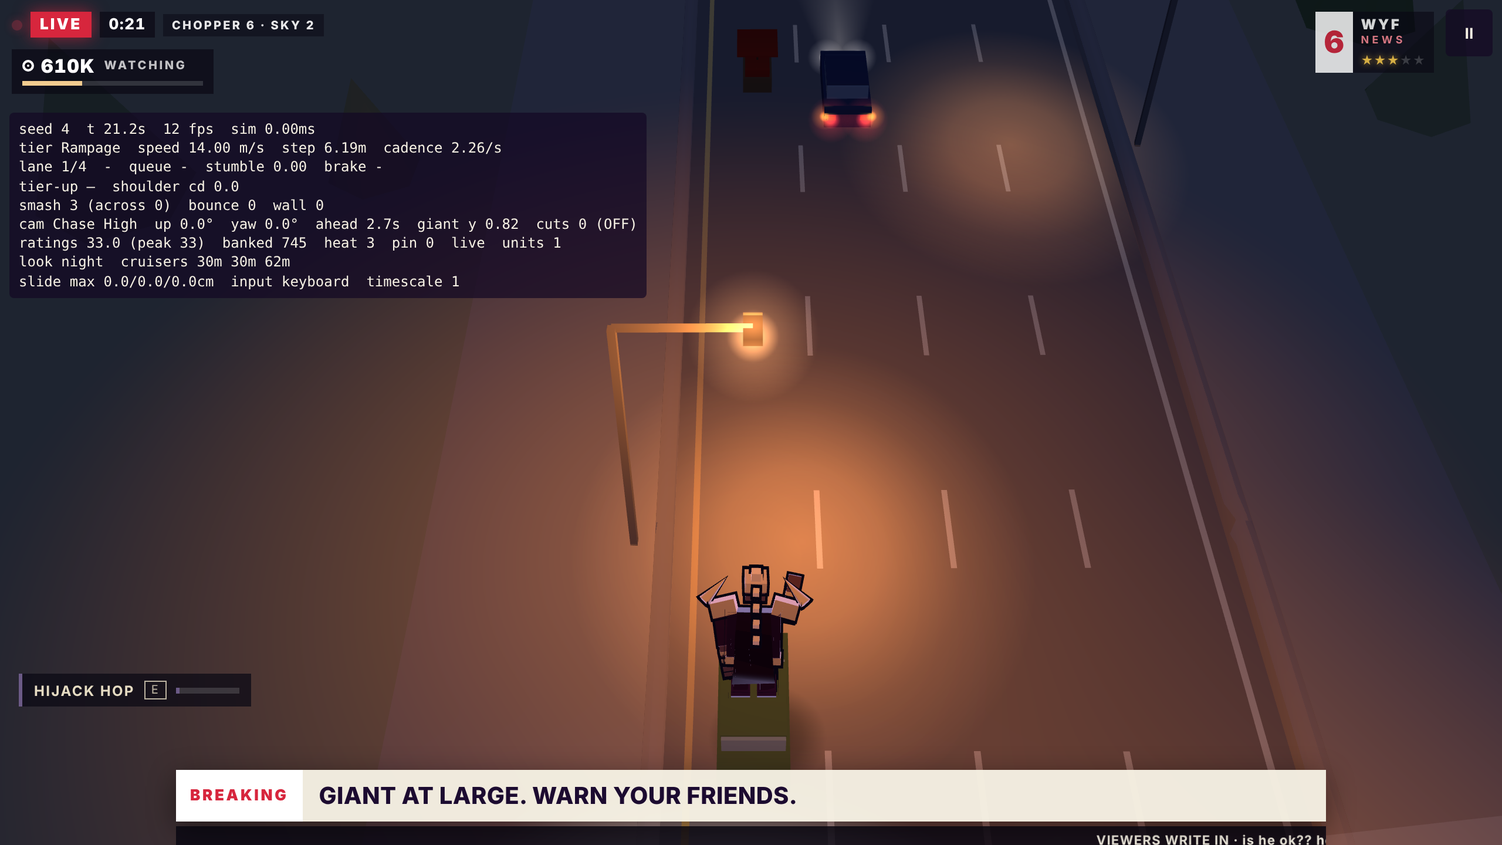
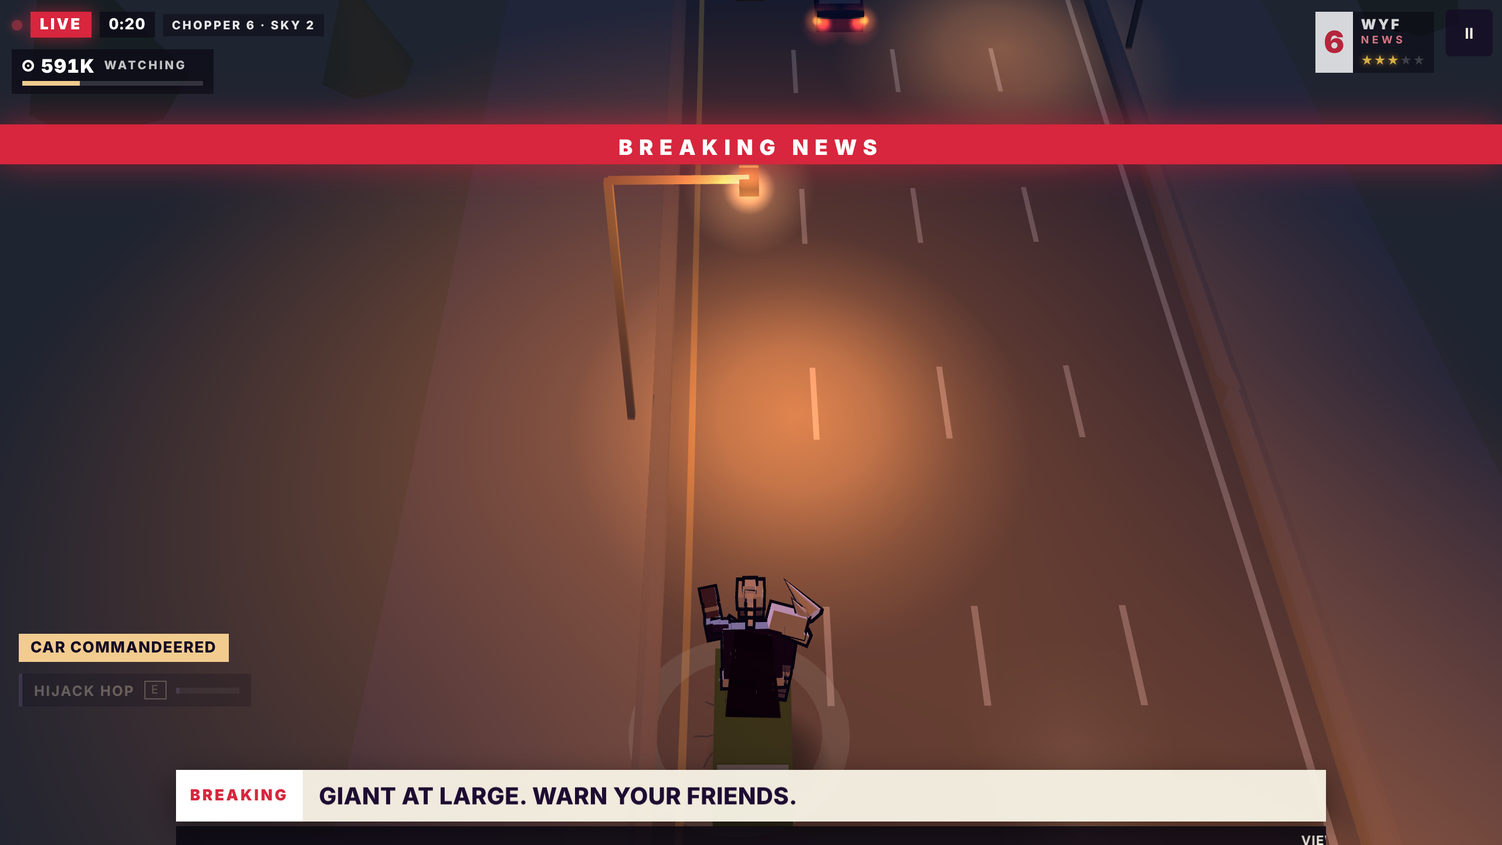
Step rate 2.6-3.1 steps/s; abilities that read from the chopper
Cadence band 2.0-2.3 -> 2.6-3.1 (knots 2.6/2.8/3.1), speeds unchanged, so
strides shorten; feet stay pinned. Tests, soak and E2E read the band from
tuning.

Abilities had weak payoff, so Mike felt nothing: Leap goes higher and
longer with tucked legs, a shrinking shadow and a camera pull-out; the
Stare parts three lanes with a visible glare; Hijack reaches 20m; every
ability shows a short callout of what it did.

Claude-Session: https://claude.ai/code/session_01U6CEtzBnsd5sKqjjyRSivB

diff --git a/src/game.ts b/src/game.ts
@@ -270,6 +270,65 @@ function showCamTag() {
 function hideRecap() {
   recapEl.hidden = true;
 }
+/** What an ability just did, beside its chip: the payoff has to read even when the chopper is far out. */
+const abilPop = $('abilpop');
+let abilPopT = 0;
+function abilityPop(text: string, dud = false) {
+  if (attract) return;
+  abilPop.textContent = text;
+  abilPop.classList.toggle('dud', dud);
+  abilPop.classList.remove('show');
+  void abilPop.offsetWidth;
+  abilPop.classList.add('show');
+  abilPopT = TUNING.abilities.popTime;
+}
+
+/** The Stare: a pale glare sweeps up his lane and the lanes either side, then fades. */
+const glares: { mesh: THREE.Mesh; t: number }[] = [];
+const glareMat = new THREE.MeshBasicMaterial({ color: 0xbfd6ff, transparent: true, opacity: 0, depthWrite: false, blending: THREE.AdditiveBlending });
+function glare(s0: number, d: number) {
+  const A = TUNING.abilities.stare;
+  const W = TUNING.lanes.width * (A.lanesEitherSide + 0.5);
+  const N = 24;
+  const verts = new Float32Array((N + 1) * 2 * 3);
+  const p = new THREE.Vector3();
+  for (let i = 0; i <= N; i++) {
+    const s = s0 + 3 + (A.reach * i) / N;
+    for (let k = 0; k < 2; k++) {
+      sim.track.posAt(s, d + (k ? W : -W), p);
+      verts.set([p.x, 0.12, p.z], (i * 2 + k) * 3);
+    }
+  }
+  const idx: number[] = [];
+  for (let i = 0; i < N; i++) idx.push(i * 2, i * 2 + 1, i * 2 + 2, i * 2 + 1, i * 2 + 3, i * 2 + 2);
+  const geo = new THREE.BufferGeometry();
+  geo.setAttribute('position', new THREE.BufferAttribute(verts, 3));
+  geo.setIndex(idx);
+  const mesh = new THREE.Mesh(geo, glareMat.clone());
+  mesh.renderOrder = 2;
+  scene.add(mesh);
+  glares.push({ mesh, t: 0 });
+}
+function updateAbilityFx(dt: number) {
+  const A = TUNING.abilities.stare;
+  for (let i = glares.length - 1; i >= 0; i--) {
+    const gl = glares[i];
+    gl.t += dt;
+    const k = gl.t / A.glareTime;
+    // Sweeps in from the giant (draw range grows), then fades.
+    const total = gl.mesh.geometry.index!.count;
+    gl.mesh.geometry.setDrawRange(0, Math.ceil(Math.min(1, k * 3) * total / 6) * 6);
+    (gl.mesh.material as THREE.MeshBasicMaterial).opacity = (settings.reduceFlashes ? 0.18 : 0.35) * Math.max(0, 1 - k);
+    if (k >= 1) {
+      scene.remove(gl.mesh);
+      gl.mesh.geometry.dispose();
+      (gl.mesh.material as THREE.Material).dispose();
+      glares.splice(i, 1);
+    }
+  }
+  if (abilPopT > 0 && (abilPopT -= dt) <= 0) abilPop.classList.remove('show');
+}
+
 /** A new recap/meeting card ignores accept for a moment: one press must not open it and choose on it. */
 let recapArmedAt = 0;
 const recapArmed = () => performance.now() >= recapArmedAt;
@@ -492,10 +551,14 @@ function present(e: SimEvent) {
       bot = null;
       break;
     case 'ability':
-      if (!e.ok) audio.dud();
+      if (!e.ok) {
+        audio.dud();
+        if (e.id === 'hijack') abilityPop('No car in reach', true);
+      }
       else if (e.id === 'leap') {
         audio.leap();
         rig.jolt(1.5, 0.1);
+        rig.tierUpPulse(); // the chopper pulls out so the arc reads
       }
       abilEl.classList.remove('fire');
       void abilEl.offsetWidth;
@@ -513,6 +576,7 @@ function present(e: SimEvent) {
       flash(TUNING.impact.heavy.flashFrames);
       haptic(160, 0.9);
       if (e.smashed) pip.trigger(sim, sim.show.tier);
+      abilityPop(e.smashed ? `Flattened ×${e.smashed}` : 'Stuck the landing');
       break;
     }
     case 'stare': {
@@ -520,6 +584,11 @@ function present(e: SimEvent) {
       for (const m of e.moved) highway.slide(m.id);
       sim.track.posAt(g.s + 10, g.d, pos);
       highway.ring(pos.x, pos.z, 9, 0xbfd6ff, 0.8, 0.35);
+      glare(g.s, sim.track.laneCenter(g.lane));
+      hitstop = Math.max(hitstop, TUNING.impact.heavy.hitstop);
+      rig.jolt(2, 0.15);
+      haptic(80, 0.5);
+      abilityPop([e.moved.length ? `Road clears ×${e.moved.length}` : 'Road already clear', e.backedOff ? `Police back off ×${e.backedOff}` : ''].filter(Boolean).join(' · '));
       break;
     }
     case 'hijack': {
@@ -532,6 +601,7 @@ function present(e: SimEvent) {
       }
       rig.jolt(2, 0.12);
       haptic(90, 0.6);
+      abilityPop('Car commandeered');
       break;
     }
     case 'hijackBail': {
@@ -550,6 +620,7 @@ function present(e: SimEvent) {
     case 'pose':
       audio.pose();
       pip.trigger(sim, sim.show.tier, true);
+      abilityPop(`Ratings +${Math.round(e.gain)} · Heat −${TUNING.abilities.pose.heatCost}`);
       break;
     case 'laneChange':
       audio.capeWhip(0.5 + g.tier * 0.25);
@@ -889,13 +960,14 @@ function frame(now: number) {
     const roof = rideMesh ? (rideMesh.userData.roof as number) : 0;
     const lift = u > 0 ? 4 * A.leap.height * u * (1 - u) : roof;
     poseAnim += ((g.pose > 0 ? 1 : 0) - poseAnim) * Math.min(1, animDt / 0.08);
-    giant.update(animDt, { x: t.x, z: t.z, heading, travel: t.travel, lateralVel, speed: g.speed, tier: g.tier, braking: g.braking, stumble: g.stumble, stepPos, lift, pose: poseAnim }, gf);
+    giant.update(animDt, { x: t.x, z: t.z, heading, travel: t.travel, lateralVel, speed: g.speed, tier: g.tier, braking: g.braking, stumble: g.stumble, stepPos, lift, leap: u, pose: poseAnim }, gf);
     if (rideMesh) {
       rideMesh.position.set(t.x, 0, t.z);
       rideMesh.rotation.y = -heading;
     }
     // Pose: flash bulbs from the crowd and the press. A soft pulse, at most 3 a second (photosensitivity).
     bulbT = Math.max(0, bulbT - animDt);
+    updateAbilityFx(animDt);
     if (g.pose > 0 && bulbT === 0 && !settings.reduceFlashes) {
       bulbT = 1 / 3;
       bulbFrames = 3;
@@ -1204,7 +1276,7 @@ window.__GAME = {
       worst[r.tier] = Math.max(worst[r.tier], r.slide);
       plants[r.tier]++;
     }
-    return { worstSlide: worst, plants, cadence: measure.cadence.map((c) => ({ ...c })) };
+    return { worstSlide: worst, plants, cadence: measure.cadence.map((c) => ({ ...c })), band: [TUNING.gait.cadenceMin, TUNING.gait.cadenceMax] };
   },
   state() {
     const g = sim.giant;

diff --git a/src/tuning.ts b/src/tuning.ts
@@ -28,7 +28,7 @@ export interface TierTuning {
   laneChangeTime: number;
   /**
    * v0.3 run cycle: cadence (steps/s) at this tier's top speed. Cadence is
-   * interpolated by speed between tiers, so it never leaves 2.0–2.3.
+   * interpolated by speed between tiers, so it never leaves the gait band (2.6–3.1).
    */
   cadence: number;
   /**
@@ -131,9 +131,9 @@ export const TUNING = {
     // Pose pass (Mike's reference stills + clip): deep lean, legs cycling under a gliding torso
     // (little bob), knee drive and heel kick, a big exaggerated arm pump (Mike: "exaggerated a bit"). Speeds, cadence
     // and stride are unchanged.
-    { name: 'Jog', topSpeed: 6, accel: 8, tierUpAfter: 2.0, smashes: 'light', laneChangeTime: 0.22, cadence: 2.0, specStrideLength: 2.5, leanDeg: 20, hipHeight: 1.68, bodyDrop: 0.12, footLift: 0.45, cameraDistanceScale: 0.9, armSwing: 0.9, armBase: -0.1, flightLift: 0.03, elbowBend: 1.2, capeAngle: 20, capeFlutterHz: 1.3, capeFlutterAmp: 0.05 },
-    { name: 'Stride', topSpeed: 10, accel: 6, tierUpAfter: 3.0, smashes: 'medium', laneChangeTime: 0.3, cadence: 2.1, specStrideLength: 4.0, leanDeg: 30, hipHeight: 1.64, bodyDrop: 0.18, footLift: 0.75, cameraDistanceScale: 1.0, armSwing: 1.25, armBase: -0.05, flightLift: 0.07, elbowBend: 1.4, capeAngle: 52, capeFlutterHz: 3.2, capeFlutterAmp: 0.12 },
-    { name: 'Rampage', topSpeed: 15, accel: 4, tierUpAfter: Infinity, smashes: 'heavy', laneChangeTime: 0.4, cadence: 2.3, specStrideLength: 6.0, leanDeg: 40, hipHeight: 1.6, bodyDrop: 0.24, footLift: 1.05, cameraDistanceScale: 1.15, armSwing: 1.6, armBase: 0, flightLift: 0.11, elbowBend: 1.6, capeAngle: 80, capeFlutterHz: 6.5, capeFlutterAmp: 0.2 },
+    { name: 'Jog', topSpeed: 6, accel: 8, tierUpAfter: 2.0, smashes: 'light', laneChangeTime: 0.22, cadence: 2.6, specStrideLength: 2.5, leanDeg: 20, hipHeight: 1.68, bodyDrop: 0.12, footLift: 0.45, cameraDistanceScale: 0.9, armSwing: 0.9, armBase: -0.1, flightLift: 0.03, elbowBend: 1.2, capeAngle: 20, capeFlutterHz: 1.3, capeFlutterAmp: 0.05 },
+    { name: 'Stride', topSpeed: 10, accel: 6, tierUpAfter: 3.0, smashes: 'medium', laneChangeTime: 0.3, cadence: 2.8, specStrideLength: 4.0, leanDeg: 30, hipHeight: 1.64, bodyDrop: 0.18, footLift: 0.75, cameraDistanceScale: 1.0, armSwing: 1.25, armBase: -0.05, flightLift: 0.07, elbowBend: 1.4, capeAngle: 52, capeFlutterHz: 3.2, capeFlutterAmp: 0.12 },
+    { name: 'Rampage', topSpeed: 15, accel: 4, tierUpAfter: Infinity, smashes: 'heavy', laneChangeTime: 0.4, cadence: 3.1, specStrideLength: 6.0, leanDeg: 40, hipHeight: 1.6, bodyDrop: 0.24, footLift: 1.05, cameraDistanceScale: 1.15, armSwing: 1.6, armBase: 0, flightLift: 0.11, elbowBend: 1.6, capeAngle: 80, capeFlutterHz: 6.5, capeFlutterAmp: 0.2 },
   ] as TierTuning[],
 
   tierDrop: {
@@ -252,9 +252,9 @@ export const TUNING = {
 
   /** v0.3 run cycle. Feet are pinned while planted; phase is locked to distance. */
   gait: {
-    /** Cadence never leaves this band (steps/s). */
-    cadenceMin: 2.0,
-    cadenceMax: 2.3,
+    /** Cadence never leaves this band (steps/s). Step-rate pass (Mike, 2026-11-14): 2.6–3.1, up from 2.0–2.3, toward his reference clip (~3.1). */
+    cadenceMin: 2.6,
+    cadenceMax: 3.1,
     /** Thigh and shin lengths (m): the giant's legs. */
     thigh: 0.95,
     shin: 0.92,
@@ -498,14 +498,16 @@ export const TUNING = {
   /** Phase 3 abilities (lane-runner versions of §17's pool). 5f input buffer (§8). */
   abilities: {
     bufferFrames: 5,
-    /** Leap: airborne this long (no collisions), apex height (m), landing shockwave radius (m) smashing up to Heavy. */
-    leap: { time: 0.9, height: 3.2, shockRadius: 4.5, cooldown: 6 },
-    /** The Stare: vehicles in your lane up to this far ahead pull over into a free neighbouring lane; police winding up back off. */
-    stare: { reach: 70, time: 0.6, cooldown: 10 },
+    /** Leap: airborne this long (no collisions), apex height (m), landing shockwave radius (m) smashing up to Heavy. Mike's playtest: 3.2m / 0.9s didn't read from the chopper. */
+    leap: { time: 1.1, height: 5.5, shockRadius: 6.5, cooldown: 6 },
+    /** The Stare: the road parts this far ahead: his lane pulls over, the lanes either side move one further out; police winding up back off. */
+    stare: { reach: 90, lanesEitherSide: 1, time: 0.6, cooldown: 10, glareTime: 0.9 },
     /** Hijack Hop: a vehicle within this far ahead (your lane or next to it); ride speed (just under Rampage top so every camera keeps ≥2s of road ahead), reached at `accel`, ride time, then bail at Rampage. */
-    hijack: { reach: 14, speed: 14, accel: 8, time: 3, cooldown: 12 },
+    hijack: { reach: 20, speed: 14, accel: 8, time: 3, cooldown: 12 },
     /** Pose: speed held at the floor this long (a deliberate stop, §2: ≤1s); Ratings per Heat level; Heat spent. */
     pose: { time: 0.8, ratingsPerHeat: 7, heatCost: 1, cooldown: 12 },
+    /** How long the "what it did" callout stays beside the ability chip (s). */
+    popTime: 1.8,
   },
 
   /** Phase 3 passives. */

diff --git a/src/render/giant.ts b/src/render/giant.ts
@@ -40,6 +40,8 @@ export interface GiantPose {
   stepPos: number;
   /** Phase 3: height off the road (Leap arc, riding a hijacked car's roof). */
   lift?: number;
+  /** Leap progress 0..1 while airborne (0 on the ground): legs tuck, the shadow shrinks. */
+  leap?: number;
   /** Phase 3: Pose for the Camera, 0..1 (arms up, chest out, facing the chopper). */
   pose?: number;
 }
@@ -239,6 +241,18 @@ export class GiantView {
     this.stumbleWobble = 1;
   }
 
+  /** A leg pulled up under the hip (knee forward and up, foot under the seat) by `t` (0..1). */
+  private tucked(L: GaitFrame['legs'][number], t: number): GaitFrame['legs'][number] {
+    const mix = (a: number, b: number) => a + (b - a) * t;
+    const fx = L.hip.x + (L.knee.x - L.hip.x) * 0.2, fz = L.hip.z + (L.knee.z - L.hip.z) * 0.2;
+    return {
+      ...L,
+      knee: { x: mix(L.knee.x, L.hip.x + (L.knee.x - L.hip.x) * 1.4), y: mix(L.knee.y, L.hip.y - 0.35), z: mix(L.knee.z, L.knee.z) },
+      foot: { x: mix(L.foot.x, fx), y: mix(L.foot.y, L.hip.y - 0.9), z: mix(L.foot.z, fz) },
+      planted: false,
+    };
+  }
+
   private placeSegment(mesh: THREE.Mesh, a: Vec3, b: Vec3) {
     const dir = this.tmp.set(b.x - a.x, b.y - a.y, b.z - a.z);
     const len = dir.length();
@@ -258,6 +272,10 @@ export class GiantView {
     this.root.rotation.y = -p.heading;
     this.hips.position.y = gait.hipY;
     this.shadow.position.set(p.x + 0.4, 0.07, p.z + 0.4);
+    // Off the ground (Leap): the shadow shrinks and fades, so height reads from straight above.
+    const air = p.leap ? Math.min(1, lift / 4) : 0;
+    this.shadow.scale.setScalar(3.2 * (1 - 0.45 * air)).setY(1);
+    (this.shadow.material as THREE.MeshBasicMaterial).opacity = 1 - 0.5 * air;
 
     // Low, forward-driving lean; more while braking upright; shoulder windup then lunge.
     this.shoulderAnim = Math.max(0, this.shoulderAnim - dt / 0.35);
@@ -312,9 +330,11 @@ export class GiantView {
 
     this.root.updateMatrixWorld(true);
 
-    // Legs from the gait IK (world space).
+    // Legs from the gait IK (world space). In the air (Leap) the feet tuck up under him.
+    const tuck = p.leap ? Math.min(1, Math.sin(Math.PI * p.leap) * 1.6) : 0;
     for (let i = 0; i < 2; i++) {
-      const L = gait.legs[i];
+      const G = gait.legs[i];
+      const L = tuck > 0 ? this.tucked(G, tuck) : G;
       const P = this.legParts[i];
       this.placeSegment(P.thigh, L.hip, L.knee);
       this.placeSegment(P.shin, L.knee, L.foot);

diff --git a/src/sim/sim.ts b/src/sim/sim.ts
@@ -496,29 +496,36 @@ export class Sim {
     this.emit({ type: 'leapLand', s: g.s, d: g.d, smashed });
   }
 
-  /** The Stare: stopped traffic ahead in his lane pulls over; police winding up back off. */
+  /**
+   * The Stare: the road parts. Traffic ahead in his lane pulls over, and traffic in the lanes
+   * either side moves one lane further out (where it's free), so an open strip runs ahead of him.
+   * Police winding up back off.
+   */
   private stare() {
     const g = this.giant;
     const A = TUNING.abilities.stare;
     const W = TUNING.lanes.width;
     const moved: { id: number; from: number; to: number }[] = [];
     const myC = this.track.laneCenter(g.lane);
-    for (const p of this.track.propsBetween(g.s, g.s + A.reach)) {
-      if (Math.abs(p.d - myC) > p.hw + 1) continue;
+    const free = (p: Prop, c: number) => !this.track.propsBetween(p.s - p.hl - 3, p.s + p.hl + 3).some((q) => q !== p && Math.abs(q.d - c) < q.hw + p.hw + 0.4);
+    // Nearest lanes first, so a car next to him can move out before one in his lane moves in beside it.
+    const props = this.track.propsBetween(g.s, g.s + A.reach).filter((p) => p.alive && Math.abs(p.d - myC) <= W * A.lanesEitherSide + p.hw);
+    props.sort((a, b) => Math.abs(b.d - myC) - Math.abs(a.d - myC));
+    for (const p of props) {
       const lanes = this.track.lanesAt(p.s);
-      for (const dir of [1, -1]) {
-        const lane = g.lane + dir;
+      const off = Math.round((p.d - myC) / W);
+      const dirs = off === 0 ? [1, -1] : [Math.sign(off)];
+      for (const dir of dirs) {
+        const lane = g.lane + off + dir;
         if (lane < 0 || lane >= lanes) continue;
         const c = this.track.laneCenter(lane);
-        const busy = this.track.propsBetween(p.s - p.hl - 3, p.s + p.hl + 3).some((q) => q !== p && Math.abs(q.d - c) < q.hw + p.hw + 0.4);
-        if (busy) continue;
+        if (!free(p, c)) continue;
         moved.push({ id: p.id, from: p.d, to: c });
         p.d = c;
         break;
       }
     }
     const backedOff = this.pursuit.backOff();
-    void W;
     this.emit({ type: 'stare', moved, backedOff });
   }
 

diff --git a/src/sim/sim.test.ts b/src/sim/sim.test.ts
@@ -235,19 +235,17 @@ describe('smash-across and unsmashable hits (v0.3)', () => {
 });
 
 describe('run cycle (v0.3)', () => {
-  it('cadence stays within 2.0–2.3 steps/s at every speed, and step length = speed ÷ cadence', () => {
+  it('cadence stays within the band at every speed, and step length = speed ÷ cadence', () => {
     for (let v = 2; v <= 18; v += 0.25) {
       const c = cadenceAt(v);
-      expect(c).toBeGreaterThanOrEqual(2.0);
-      expect(c).toBeLessThanOrEqual(2.3);
+      expect(c).toBeGreaterThanOrEqual(TUNING.gait.cadenceMin);
+      expect(c).toBeLessThanOrEqual(TUNING.gait.cadenceMax);
       expect(stepLengthAt(v) * c).toBeCloseTo(v, 9);
     }
-    expect(cadenceAt(6)).toBeCloseTo(2.0, 9);
-    expect(cadenceAt(10)).toBeCloseTo(2.1, 9);
-    expect(cadenceAt(15)).toBeCloseTo(2.3, 9);
+    for (const T of TUNING.tiers) expect(cadenceAt(T.topSpeed)).toBeCloseTo(T.cadence, 9);
   });
 
-  it('measured footfall cadence stays in 2.0–2.3 at every tier (bot runs, 20 seeds)', () => {
+  it('measured footfall cadence stays in the band at every tier (bot runs, 20 seeds)', () => {
     const byTier: number[][] = [[], [], []];
     for (let seed = 1; seed <= 20; seed++) {
       const sim = new Sim({ seed });
@@ -263,8 +261,8 @@ describe('run cycle (v0.3)', () => {
     }
     for (let t = 0; t < 3; t++) {
       expect(byTier[t].length, `tier ${t} sampled`).toBeGreaterThan(50);
-      expect(Math.min(...byTier[t])).toBeGreaterThanOrEqual(2.0 - 1e-6);
-      expect(Math.max(...byTier[t])).toBeLessThanOrEqual(2.3 + 1e-6);
+      expect(Math.min(...byTier[t])).toBeGreaterThanOrEqual(TUNING.gait.cadenceMin - 1e-6);
+      expect(Math.max(...byTier[t])).toBeLessThanOrEqual(TUNING.gait.cadenceMax + 1e-6);
     }
   });
 });

diff --git a/src/style.css b/src/style.css
@@ -324,3 +324,9 @@ html.touch #abil { display: none; }
 #recap .padhint { margin-top: 10px; font-size: 12px; opacity: 0.7; display: flex; gap: 6px; align-items: center; justify-content: center; }
 #recap .padhint:empty { display: none; }
 @media (max-width: 560px) { #controls { gap: 8px; font-size: 10px; } }
+
+/* What an ability just did, above its chip. */
+#abilpop { position: absolute; left: 16px; bottom: calc(156px + env(safe-area-inset-bottom)); padding: 4px 10px; background: #f2cc8f; color: #140824; font-size: 13px; font-weight: 800; letter-spacing: 0.06em; text-transform: uppercase; pointer-events: none; opacity: 0; transform: translateY(6px); transition: opacity 0.15s, transform 0.15s; }
+#abilpop.show { opacity: 1; transform: none; }
+#abilpop.dud { background: rgba(10, 8, 20, 0.8); color: var(--bone); }
+html.attract #abilpop { display: none; }

diff --git a/tools/soak.ts b/tools/soak.ts
@@ -5,7 +5,7 @@
  *   - speed never below 2 m/s (Law 1, LOCKED); no NaN; giant stays on the road
  *   - never stalls: path travelled over any 3s ≥ 75% of what the speed floor implies
  * Run cycle (v0.3)
- *   - cadence within 2.0–2.3 steps/s at every tier; foot slide < 5cm per plant
+ *   - cadence within the gait band (TUNING.gait) at every tier; foot slide < 5cm per plant
  * Camera (v0.3)
  *   - screen-up law (LOCKED): travel within ±35° of screen-up, every frame
  *   - Phase 0c director: cut-aways only on Rampage / Heavy smash / merge, each

diff --git a/index.html b/index.html
@@ -29,6 +29,7 @@
       </div>
       <div id="camtag" aria-hidden="true"></div>
       <div id="controls" hidden aria-hidden="true"></div>
+      <div id="abilpop" aria-live="polite"></div>
       <div id="abil" hidden aria-hidden="true"><b class="nm"></b><span class="key"></span><span class="cd"><i></i></span></div>
       <div id="tierbar" aria-hidden="true"><span class="name">JOG</span><span class="meter"><i></i></span></div>
 

diff --git a/DECISIONS.md b/DECISIONS.md
@@ -4,6 +4,8 @@ Build-time decisions, working defaults for open questions (GDD §46), and deviat
 
 | Date | Decision | Why | Revisit |
 |---|---|---|---|
+| 2026-11-14 | **Step-rate pass (GDD revision, Mike: "go ahead with the step-rate work"):** cadence band 2.0–2.3 → **2.6–3.1 steps/s**, knots 2.6 / 2.8 / 3.1 at Jog / Stride / Rampage top speed, toward his reference clip (~3.1). Speeds unchanged (6 / 10 / 15), so stride shortens to 2.3 / 3.6 / 4.8 m. Feet still pinned: 0.00cm slide over ~56k soak plants. Tests and soak now read the band from `tuning.ts`. This supersedes v0.3 §10's flat 2.0–2.3 band. | Mike parked it until the model pass. | Mike's feel check |
+| 2026-11-14 | **Abilities made to read** (Mike: "the abilities felt like they did nothing"). Cause: weak payoff from the chopper, not broken logic. **Leap** 5.5m apex / 1.1s / 6.5m shockwave (was 3.2 / 0.9 / 4.5): legs tuck, the ground shadow shrinks, the chopper pulls out on take-off. **The Stare** parts the road: his lane pulls over *and* the lanes either side move one further out, 90m ahead (was his lane only, 70m, so it often moved nothing). A pale glare sweeps up the three lanes, plus a hitstop beat. Soak: cars moved 190 → 383. **Hijack** reach 14 → 20m, so fewer presses fizzle; a fizzle says "No car in reach". **Every ability** shows a short callout above its chip saying what it did ("Flattened ×3", "Road clears ×4 · Police back off ×1", "Car commandeered", "Ratings +14 · Heat −1"); this is consequence copy (shell rule 8). | Mike's playtest. | Mike's playtest |
 | 2026-11-14 | **Model pass from Mike's sheet:** plum body, cream bone plates (breastplate, backplate, belt, half-helm, knees). **One** big horned pauldron (two horns sweeping back) on one shoulder; the other shoulder is bare but for the cape strap. The strap crosses the chest to a gold clasp under the pauldron, and the cape is slung from it, so its top edge slants. Plates stay bone, not jade: Mike says jade was his original, Ganondorf-like sheet. He stays "the giant" (no name). **Cape per tier** (`tuning.ts`): it hangs at 20° from vertical at Jog, 52° at Stride and 80° (almost horizontal) at Rampage. A wave runs down it at 1.3 / 3.2 / 6.5 Hz, sharper at each tier so Rampage snaps. Its top drapes along the leaning back, it swings out opposite a lane change, and it lifts 18° on a tier-up. This replaces the path-following cape, which disappeared into his back at Jog. **Braid** is now a fixed-length chain (it used to float apart into cubes). The silhouette test passes in every angle and look. `tools/modelsheet.mjs` renders a turnaround (side, Chase High, top down × three tiers). | Mike's sheet; v0.3 knee length kept. | Mike's playtest; the real model in Phase 5 |
 | 2026-11-14 | **Button labels follow the pad** (Mike tests on a PS4 pad): the shell's glyph registry (`src/glyphs.ts`). PlayStation pads (DualShock 4 / DualSense, detected by name or Sony vendor id 054c) show L1 / R1 / L2 / ✕ / Options; Xbox and unknown pads show LB / RB / LT / A / Menu; keyboard and touch have their own. Shown on the ability chip, on a controls strip at the top of the screen for the first 7s of each segment (kept clear of the giant), and as a Move / Choose hint under recap and meeting cards. Any pad button press makes the pad the active device. | Mike's request. | — |
 | 2026-11-14 | **Phase 3 (Depth): the five-segment run** (Mike: "go ahead with 1 and 2"). Two modes on mode select: **Full Broadcast** (5 segments) and **Single Segment** (the Phase 2 broadcast). Score = everything banked across the run; upgrades are paid from the **budget** (banked minus spent), so spending never lowers the score. A bust ends the run; signing off segment 5 wins it. Segment *n* opens at Heat min(5, 1+*n*). Between segments: recap ("SEGMENT n OF 5"), then the **Producer's Meeting**: 3 seeded pitches from the 8 (owned passives and the held ability aren't offered), buy one or Skip. Abilities share one slot (buying replaces it, and the card says so). | GDD §4, §17, §482. | Mike's playtest |

diff --git a/docs/GDD-v0.3-lane-runner.md b/docs/GDD-v0.3-lane-runner.md
@@ -99,7 +99,7 @@ The sign-off zone becomes an **exit ramp** that opens at 130s; take it before 16
 
 How the build resolved the spec where it conflicts with itself. Details and dates in [DECISIONS.md](../DECISIONS.md).
 
-1. **Stride × cadence vs speeds.** The §10 table's stride × cadence is 5.0 / 8.4 / 13.8 m/s, but §7–9 keeps speeds at 6 / 10 / 15. With the feet locked to distance, cadence = speed ÷ stride, so only two of the three can hold. The build keeps the **speeds** and the **cadence band** (it's tested) and **derives stride length**: 3.0 / 4.8 / 6.5 m at top speed. Cadence rises with speed (2.0 at Jog top, 2.1 at Stride top, 2.3 at Rampage top) and never leaves 2.0–2.3.
+1. **Stride × cadence vs speeds.** The §10 table's stride × cadence is 5.0 / 8.4 / 13.8 m/s, but §7–9 keeps speeds at 6 / 10 / 15. With the feet locked to distance, cadence = speed ÷ stride, so only two of the three can hold. The build keeps the **speeds** and the **cadence band** (it's tested) and **derives stride length**: 3.0 / 4.8 / 6.5 m at top speed. Cadence rises with speed (2.0 at Jog top, 2.1 at Stride top, 2.3 at Rampage top) and never leaves 2.0–2.3. **Revised 2026-11-14 (step-rate pass, Mike):** band 2.6–3.1, knots 2.6 / 2.8 / 3.1, stride 2.3 / 3.6 / 4.8 m.
 2. **Wide Side vs the screen-up law.** At 52° pitch, a camera yawed 35° off the travel direction shows travel ~42° off screen-up, breaking the LOCKED ±35° law. Every angle's yaw is clamped so the on-screen angle stays inside the law (Wide Side lands at ~27° of yaw), and the measured angle is enforced every frame.
 3. **"Direction of travel"** for the law is the road's direction at the giant, not the momentary sideways velocity of a lane change (at Jog that's ~18 m/s sideways against 6 m/s forward).
 4. **Phase 0b scope:** §40 asks for Chase High plus one cut angle; the build request asked for all three. All three are built.
